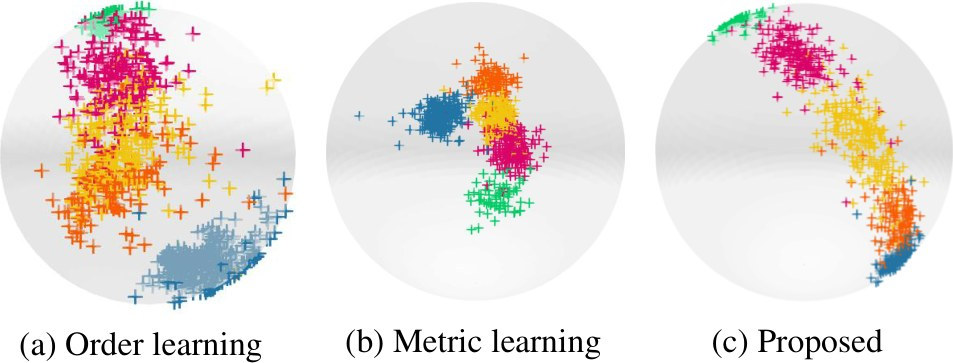
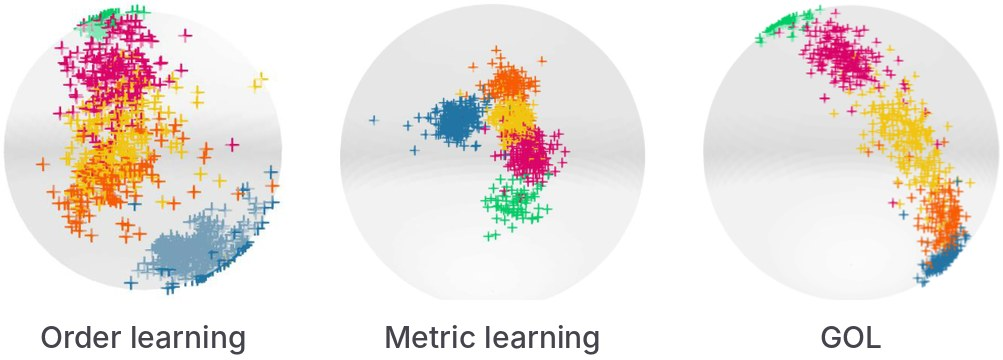
Selected papers: new ConOrd figure, clean labels on GOL figure
Claude-Session: https://claude.ai/code/session_019DkR5rkkzJ6eXb763qS34b

diff --git a/_source/pages/Publications.dc.html b/_source/pages/Publications.dc.html
@@ -457,8 +457,8 @@ const all = [
 ];
 const selected = [
 { venue: 'NeurIPS 2026', img: '/_blob/83b91072d1403df0a48cb584c65ba301', title: 'Bound-conditioned latent inference for progressive image compression', authors: 'Jaeseok Jang*, Seungmin Jeon*, Kwang Pyo Choi, and Chang-Su Kim', topic: 'Learned compression' },
-{ venue: 'ICML 2026', img: '/_blob/f8081a5c8155b7d5d32335c3f7b65d48', title: 'Contrastive order learning: A general framework for ordinal regression', authors: 'Chaewon Lee, Beomjun Shim, Kwang-Pyo Choi, and Chang-Su Kim', topic: 'Order learning' },
-{ venue: 'NeurIPS 2022', img: '/_blob/070d6696b8fed7cc55487f12f725c32b', title: 'Geometric order learning for rank estimation', authors: 'Seon-Ho Lee, Nyeong Ho Shin, and Chang-Su Kim', topic: 'Order learning' },
+{ venue: 'ICML 2026', img: '/_blob/ccb93590fcaeae9dae3b5b572996fd34', title: 'Contrastive order learning: A general framework for ordinal regression', authors: 'Chaewon Lee, Beomjun Shim, Kwang-Pyo Choi, and Chang-Su Kim', topic: 'Order learning' },
+{ venue: 'NeurIPS 2022', img: '/_blob/e40b11f7ef250d51daa900c0d772d3e8', title: 'Geometric order learning for rank estimation', authors: 'Seon-Ho Lee, Nyeong Ho Shin, and Chang-Su Kim', topic: 'Order learning' },
 { venue: 'CVPR 2022 · Oral', img: '/_blob/2db5780d7e32c1e1e9c30a72d63029c8', title: 'DPICT: Deep progressive image compression using trit-planes', authors: 'Jae-Han Lee, Seungmin Jeon, Kwang Pyo Choi, Yongpo Park, and Chang-Su Kim', topic: 'Learned compression' },
 { venue: 'ICLR 2020', img: '/_blob/fd29455553f5810313fd228ea9e24e44', title: 'Order learning and its application to age estimation', authors: 'Kyungsun Lim, Nyeong-Ho Shin, Young-Yoon Lee, and Chang-Su Kim', topic: 'Order learning' },
 { venue: 'CVPR 2019', img: '/_blob/f974175da39b420d18efb99c63e7a00e', title: 'Interactive image segmentation via backpropagating refinement scheme', authors: 'Won-Dong Jang and Chang-Su Kim', topic: 'Visual understanding' }

diff --git a/_source/build.py b/_source/build.py
@@ -16,8 +16,8 @@ PAGES = {  # source -> (output file, page title)
 BLOBS = {
     '/_blob/eb78a1e16175a13c8873a8f7041376aa': 'images/cskim.jpg',
     '/_blob/83b91072d1403df0a48cb584c65ba301': 'images/sel/bli.jpg',
-    '/_blob/f8081a5c8155b7d5d32335c3f7b65d48': 'images/sel/conord.jpg',
-    '/_blob/070d6696b8fed7cc55487f12f725c32b': 'images/sel/gol.jpg',
+    '/_blob/ccb93590fcaeae9dae3b5b572996fd34': 'images/sel/conord.jpg',
+    '/_blob/e40b11f7ef250d51daa900c0d772d3e8': 'images/sel/gol.jpg',
     '/_blob/2db5780d7e32c1e1e9c30a72d63029c8': 'images/sel/dpict.jpg',
     '/_blob/fd29455553f5810313fd228ea9e24e44': 'images/sel/ol.jpg',
     '/_blob/f974175da39b420d18efb99c63e7a00e': 'images/sel/brs.jpg',
